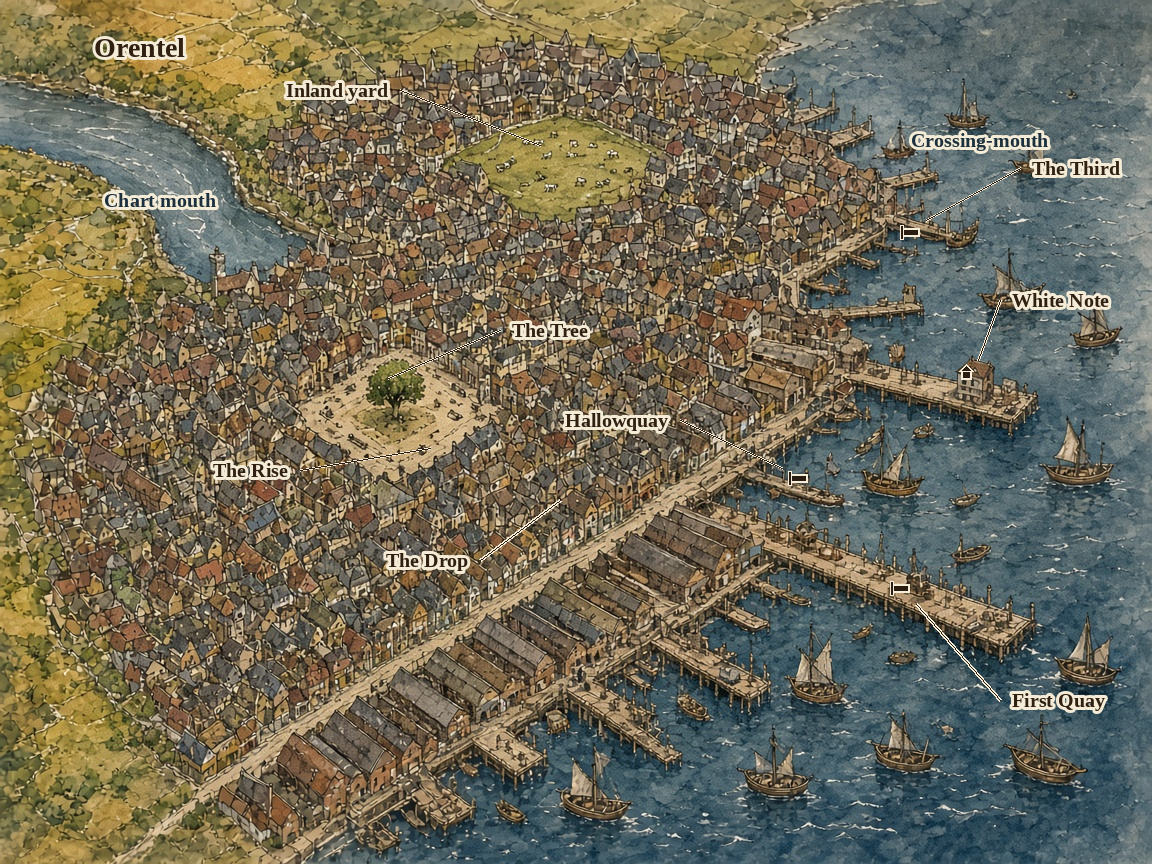
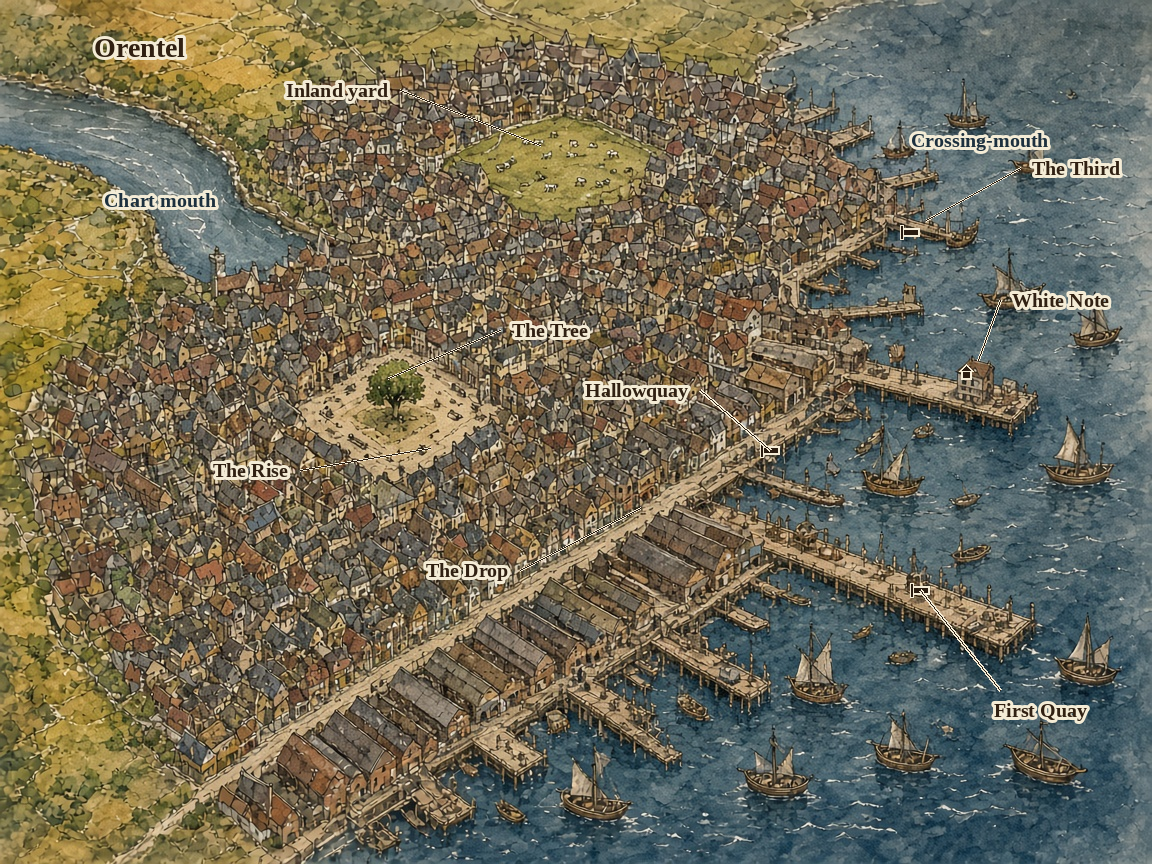
Seat the Orentel quay leaders and the Drop on the features they name.
The Rise stays on the square. Hallowquay ends on the inner pier, First Quay on the long landing, and the Drop on the street between them. Grove Bank ends on the road in Maiethlir's north gate.

diff --git a/14 - Assets/Maps/label_orentel_city.py b/14 - Assets/Maps/label_orentel_city.py
@@ -107,19 +107,19 @@ def build() -> Image.Image:
     leader(ink, (388, 378), (500, 330))
     halo_text(ink, (512, 330), "The Tree", place, TYPE, anchor="lm")
 
-    # From the square down toward the berths.
-    leader(ink, (560, 500), (480, 560))
-    halo_text(ink, (468, 560), "The Drop", place, TYPE, anchor="rm")
+    # The one street from the square down to the berths. The far end sits mid-road.
+    leader(ink, (640, 508), (520, 570))
+    halo_text(ink, (508, 570), "The Drop", place, TYPE, anchor="rm")
 
-    # Inner landing, on the pier west of the long berths.
-    quay_mark(ink, (798, 478))
-    leader(ink, (782, 468), (680, 420))
-    halo_text(ink, (668, 420), "Hallowquay", place, TYPE, anchor="rm")
+    # Lesser inner pier, on its deck. West of the long landing.
+    quay_mark(ink, (770, 450))
+    leader(ink, (770, 450), (700, 390))
+    halo_text(ink, (688, 390), "Hallowquay", place, TYPE, anchor="rm")
 
-    # Long south landing, on the pier. Not the water beside it.
-    quay_mark(ink, (900, 588))
-    leader(ink, (916, 604), (1000, 700))
-    halo_text(ink, (1012, 700), "First Quay", place, TYPE, anchor="lm")
+    # Long south landing. Open deck, clear of the boats.
+    quay_mark(ink, (920, 590))
+    leader(ink, (920, 590), (1000, 690))
+    halo_text(ink, (1040, 710), "First Quay", place, TYPE, anchor="mm")
 
     # North-side quay, on the pier deck.
     quay_mark(ink, (910, 232))

diff --git a/14 - Assets/Maps/label_maiethlir_city.py b/14 - Assets/Maps/label_maiethlir_city.py
@@ -97,9 +97,9 @@ def build() -> Image.Image:
     leader(ink, (1110, 318), (1040, 190))
     halo_text(ink, (1028, 190), "Wall Path", place, TYPE, anchor="rm")
 
-    # The north road at the wall, where it leaves toward the wood.
-    leader(ink, (545, 48), (450, 30))
-    halo_text(ink, (438, 30), "Grove Bank", place, TYPE, anchor="rm")
+    # The road in the north gate, where it leaves toward the wood.
+    leader(ink, (508, 40), (400, 22))
+    halo_text(ink, (388, 22), "Grove Bank", place, TYPE, anchor="rm")
 
     # Civic Hand on the north bank. No capital star.
     leader(ink, (558, 322), (400, 250))
